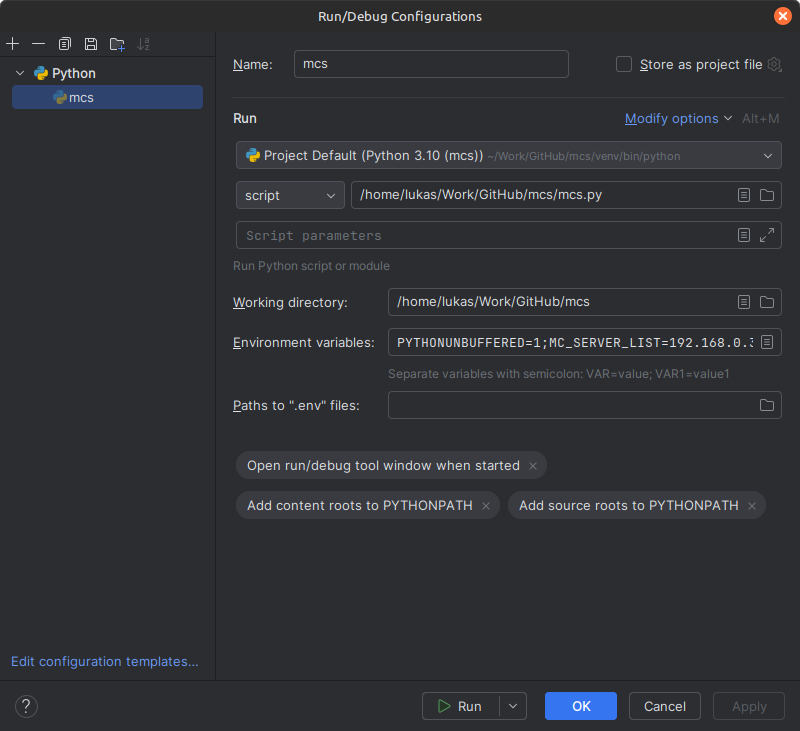
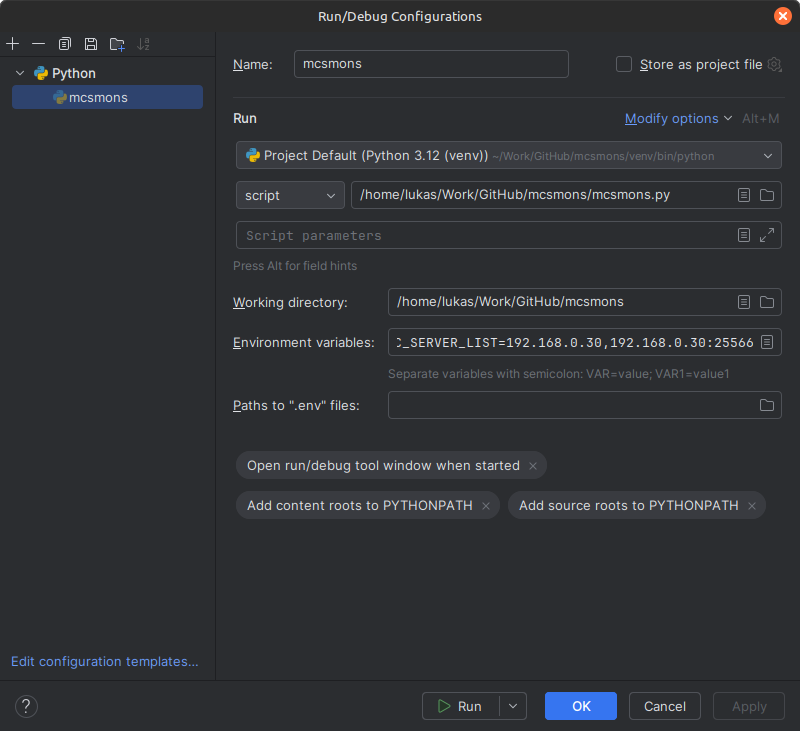
rename project from mcs to mcsmons

diff --git a/Readme.md b/Readme.md
@@ -1,10 +1,10 @@
-# Minecraft Status (MCS) Service in Flask
+# Minecraft Server Monitoring Service (MCSMONS) Service in Flask
 
-A Flask web server for Minecraft servers monitoring.
+A Flask web server for Minecraft Server monitoring.
 
     ./build.sh
 
-    podman run --name mcs -p 8080:5000 -d mcs
+    podman run --name mcsmons -p 8080:5000 -d mcsmons
 
     curl -v localhost:8080/metrics
 
